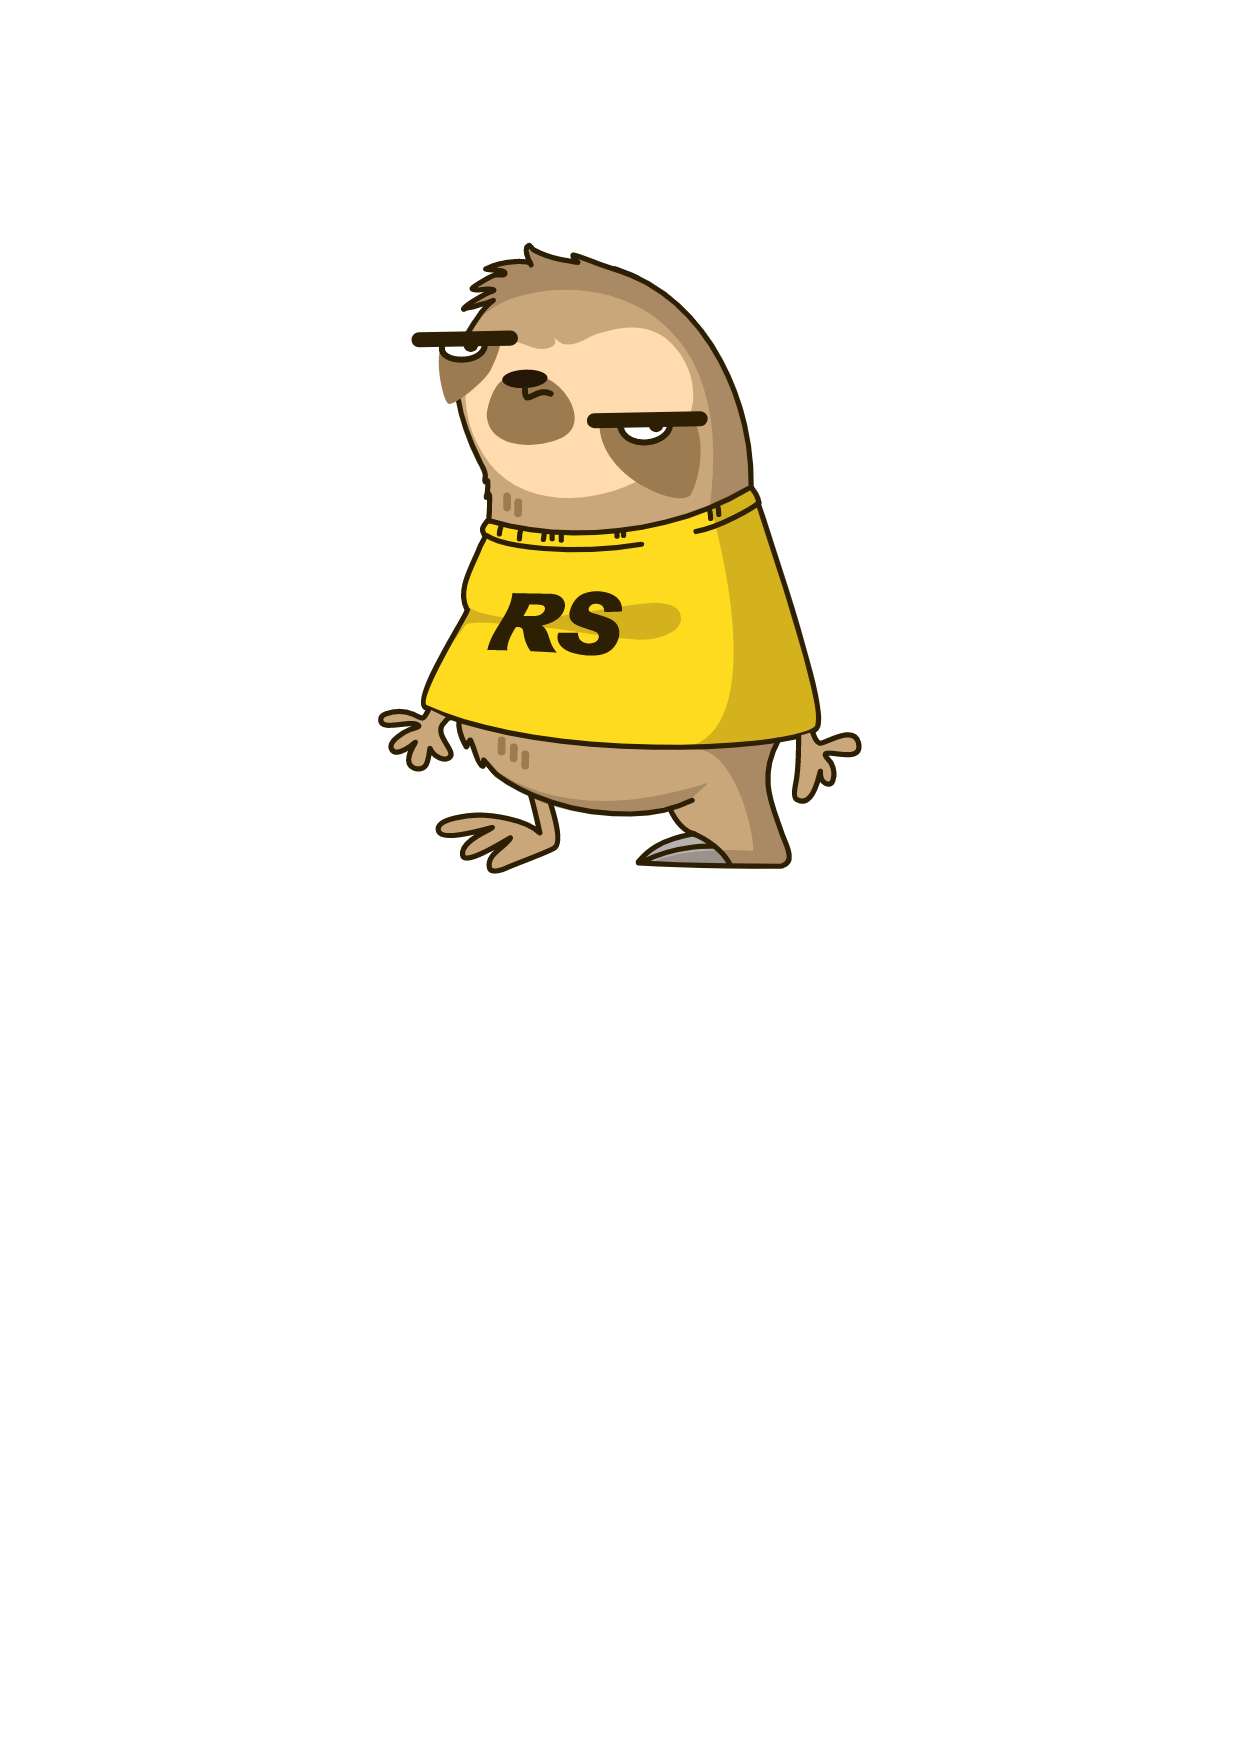
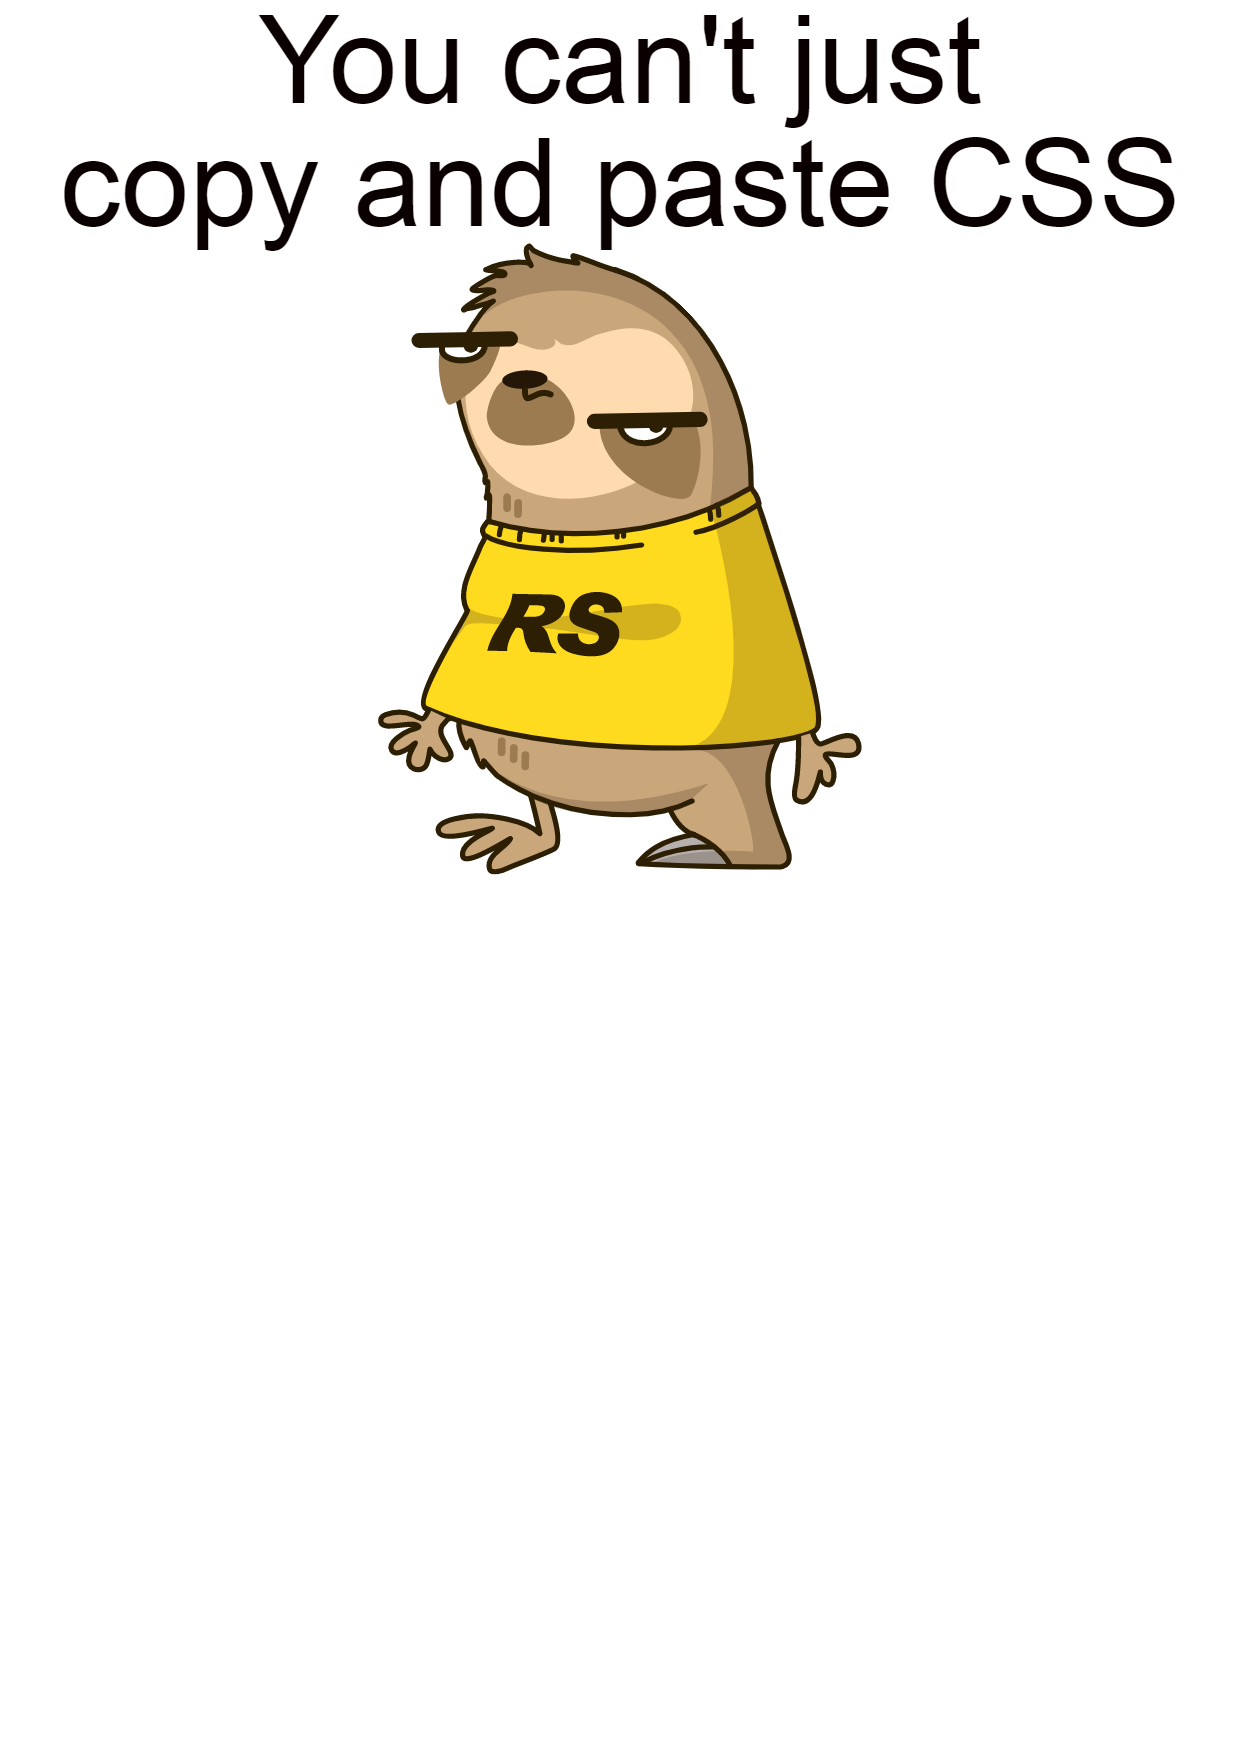
feat: modified files and add new files (12 мар 2023 г.  2:17:58)

diff --git a/ccsBayan/index.html b/ccsBayan/index.html
@@ -5,8 +5,37 @@
     <meta http-equiv="X-UA-Compatible" content="IE=edge">
     <meta name="viewport" content="width=device-width, initial-scale=1.0">
     <title>cssBayan</title>
+    <link rel="stylesheet" href="style.css">
 </head>
 <body>
-    
+<section class="bayan">
+
+    <button class="accordion"><h2>CSS Bayan</h2></button>
+
+    <button class="accordion">You can't just copy and paste CSS</button>
+    <div class="panel">
+      <img class="png_button" src="./png/download.png" alt="png">
+    </div>
+
+    <button class="accordion">Keep calm and carry on</button>
+    <div class="panel">
+        <img class="png_button" src="./png/download (1).png" alt="png1">
+    </div>
+
+    <button class="accordion">Work-life balance</button>
+    <div class="panel">
+        <img class="png_button" src="./png/download (2).png" alt="png2">
+    </div>
+
+    <button class="accordion">Dude, where is JS?</button>
+    <div class="panel">
+        <img class="png_button" src="./png/download (3).png" alt="png3">
+    </div>
+
+    <button class="accordion">Relax and take it easy</button>
+    <div class="panel">
+        <img class="png_button" src="./png/download (4).png" alt="png4">
+    </div>
+    </section>
 </body>
 </html>

diff --git a/ccsBayan/style.css b/ccsBayan/style.css
@@ -1,0 +1,24 @@
+
+
+.accordion {
+    background-color: #ccc;
+    color: #444;
+    cursor: pointer;
+    padding: 18px;
+    width: 100%;
+    border: none;
+    text-align: left;
+    outline: none;
+    transition: 0.4s;
+}
+
+.active, .accordion:hover {
+    background-color: #ccc;
+}
+
+.panel {
+    padding: 0 18px;
+    display: none;
+    background-color: white;
+    overflow: hidden;
+}
